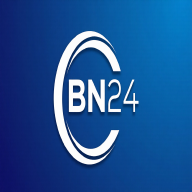
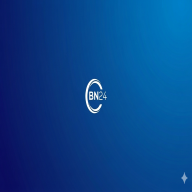
deploy: 9e4bbbe522f22c5a075d2efece8bc2484df2a292

Changed region(s): [[0.25, 0.1562, 0.7188, 0.875], [0.9375, 0.9062, 1.0, 0.9688]]

diff --git a/flutter_service_worker.js b/flutter_service_worker.js
@@ -3,7 +3,7 @@ const MANIFEST = 'flutter-app-manifest';
 const TEMP = 'flutter-temp-cache';
 const CACHE_NAME = 'flutter-app-cache';
 
-const RESOURCES = {"favicon.png": "6d80a1bd3b391353b4b3513c2f2c4ffb",
+const RESOURCES = {"favicon.png": "801c0f97bbd938f31eccda03de4a3491",
 "assets/assets/IMG-20260228-WA0018.jpg": "df1b578c67ba0b9a4e8aea9b96d5c848",
 "assets/NOTICES": "26984a12034684ad7e92613fedd31e37",
 "assets/AssetManifest.bin.json": "a85e2299c10ee1d13c89639cec5f1abf",
@@ -15,7 +15,7 @@ const RESOURCES = {"favicon.png": "6d80a1bd3b391353b4b3513c2f2c4ffb",
 "index.html": "86e05423539886b47cf10da5589d0ab1",
 "/": "86e05423539886b47cf10da5589d0ab1",
 "manifest.json": "be93a4511ea85716ca5b24f1d29641f6",
-"flutter_bootstrap.js": "0f62a65ceedb4c7013170ec670b350f1",
+"flutter_bootstrap.js": "a1a18b714f3880879a2e6c4105b0998f",
 "main.dart.js": "6d983f9bdda82e0684ff9638611449da",
 "flutter.js": "24bc71911b75b5f8135c949e27a2984e",
 "canvaskit/skwasm.js.symbols": "3a4aadf4e8141f284bd524976b1d6bdc",
@@ -31,10 +31,10 @@ const RESOURCES = {"favicon.png": "6d80a1bd3b391353b4b3513c2f2c4ffb",
 "canvaskit/chromium/canvaskit.js": "a80c765aaa8af8645c9fb1aae53f9abf",
 "canvaskit/chromium/canvaskit.js.symbols": "e2d09f0e434bc118bf67dae526737d07",
 "version.json": "9a054387fef66882b178630fc5847716",
-"icons/Icon-maskable-512.png": "053e1fad775e8a5027f4dd14e7d2cd0b",
-"icons/Icon-maskable-192.png": "05607c36cf5c43331172ffcb48047d92",
-"icons/Icon-192.png": "05607c36cf5c43331172ffcb48047d92",
-"icons/Icon-512.png": "053e1fad775e8a5027f4dd14e7d2cd0b"};
+"icons/Icon-maskable-512.png": "4172a2b8178feefef5fc505126e22891",
+"icons/Icon-maskable-192.png": "405d4634940f3ba4c93ef17fe0df52db",
+"icons/Icon-192.png": "405d4634940f3ba4c93ef17fe0df52db",
+"icons/Icon-512.png": "4172a2b8178feefef5fc505126e22891"};
 // The application shell files that are downloaded before a service worker can
 // start.
 const CORE = ["main.dart.js",

diff --git a/flutter_bootstrap.js b/flutter_bootstrap.js
@@ -38,6 +38,6 @@ _flutter.buildConfig = {"engineRevision":"1527ae0ec577a4ef50e65f6fefcfc1326707d9
 
 _flutter.loader.load({
   serviceWorkerSettings: {
-    serviceWorkerVersion: "1541302358"
+    serviceWorkerVersion: "3632585334"
   }
 });
